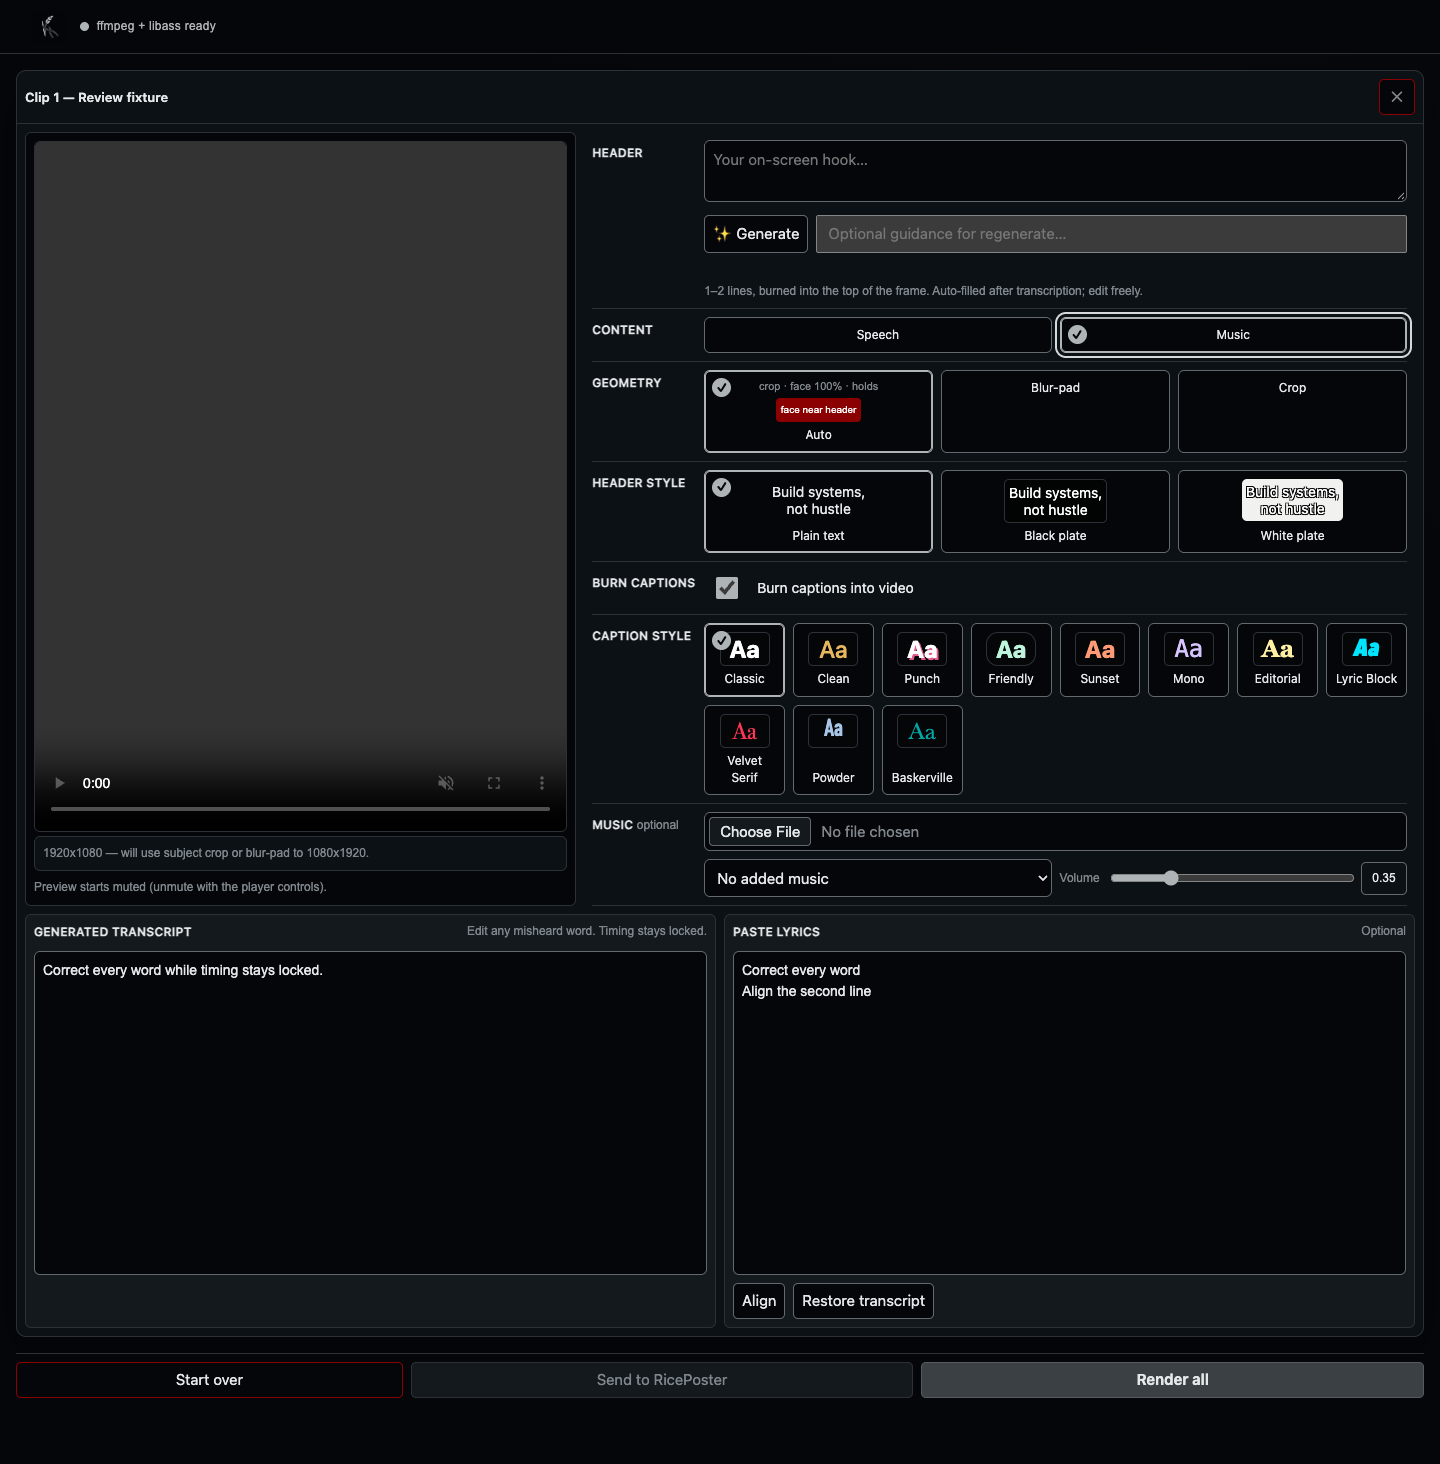
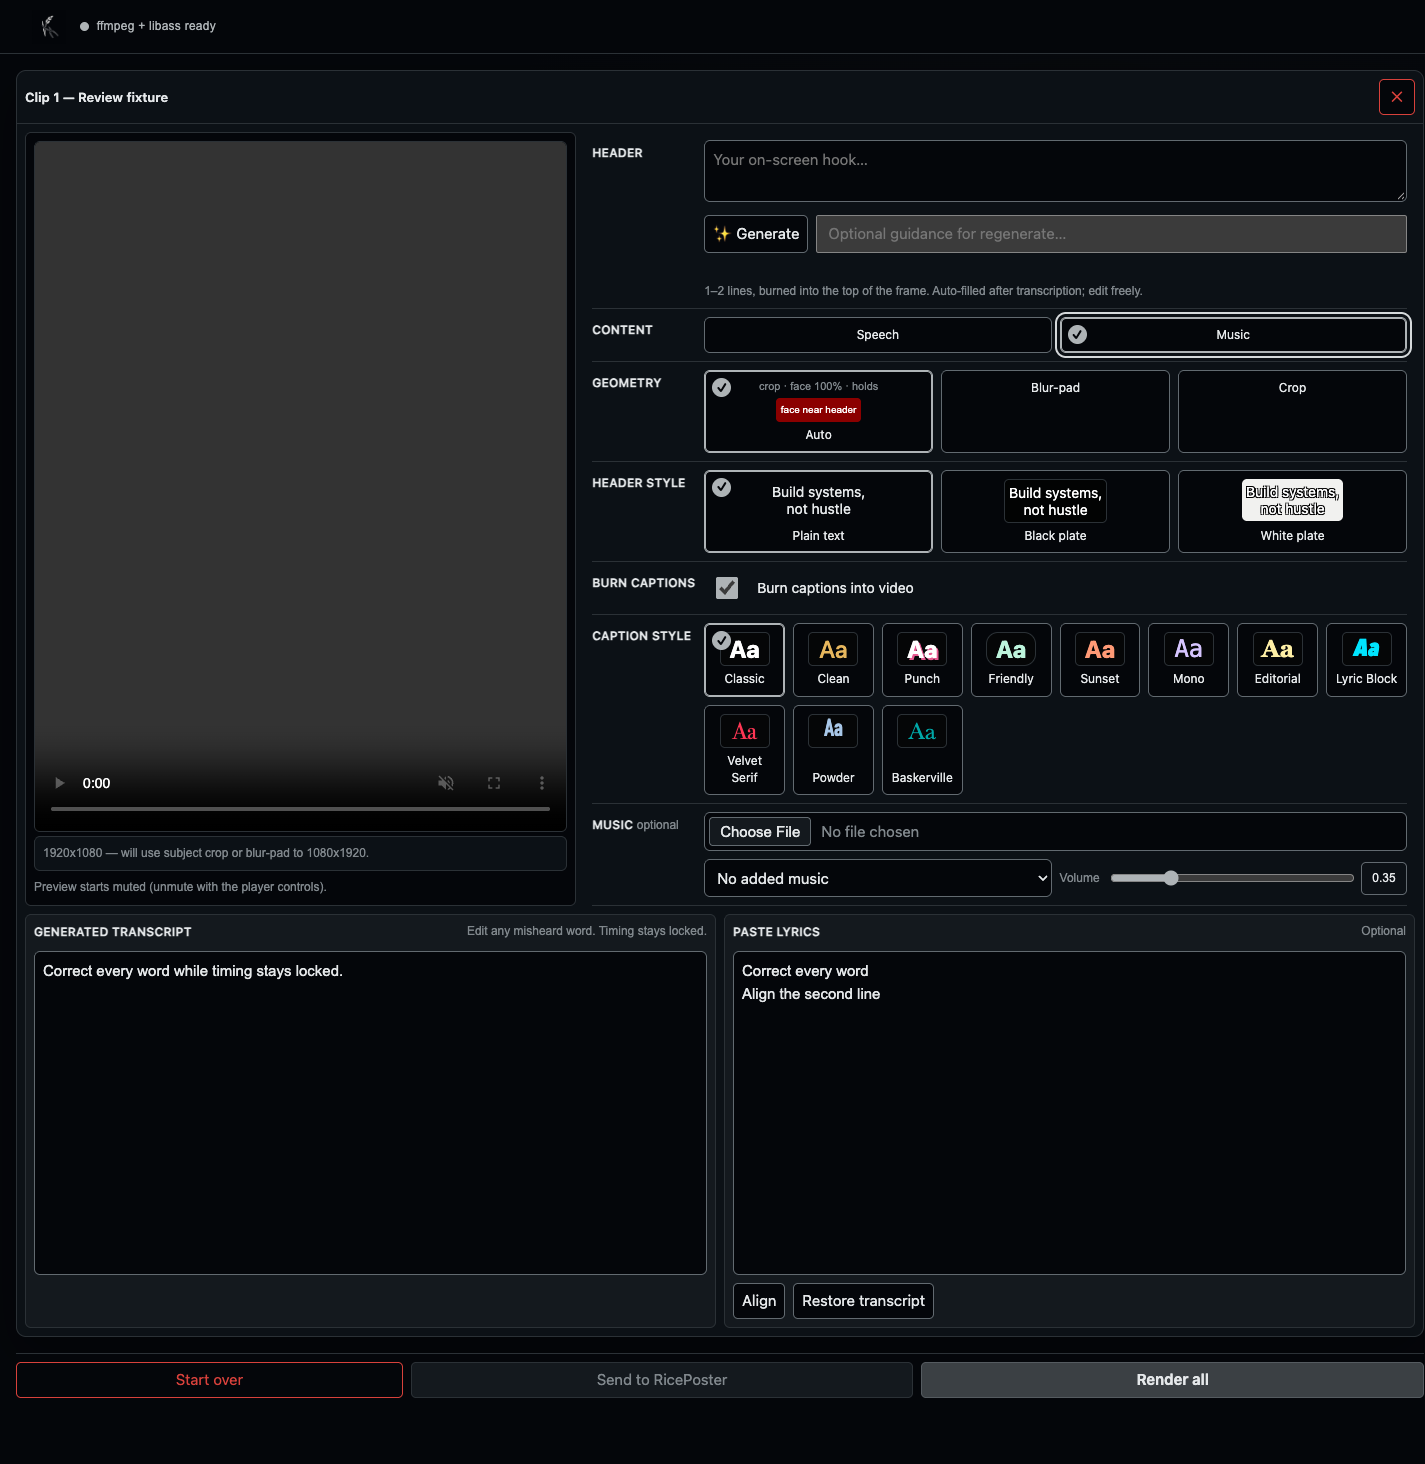
Match red control text to #D8413B edge; raise transcript text to header size

diff --git a/web/style.css b/web/style.css
@@ -10,6 +10,7 @@
   --charcoal: #3b4044;
   --text: #e5e8ea;
   --danger: #ff7979;
+  --destructive: #d8413b;
   --focus: #d5d9db;
   --shadow: 0 18px 50px rgb(0 0 0 / 28%);
 }
@@ -48,7 +49,7 @@ body:has(#batch-panel:not(.hidden)) main { width: 100%; padding: calc(var(--edit
 .clip-head { display: flex; min-height: 48px; padding: var(--editor-space); align-items: center; gap: var(--editor-space); border-bottom: 1px solid var(--hairline); }
 .clip-title { overflow: hidden; font-size: 13px; font-weight: 620; text-overflow: ellipsis; white-space: nowrap; }
 .clip-head .clip-status { flex: 1; margin: 0; text-align: right; }
-.clip-remove { width: 36px; min-height: 36px; padding: 0; border-color: #8b0000; color: var(--muted); }
+.clip-remove { width: 36px; min-height: 36px; padding: 0; border-color: var(--destructive); color: var(--destructive); }
 .review-grid { display: grid; grid-template-columns: repeat(10, minmax(0, 1fr)); gap: var(--editor-space); padding: var(--editor-space); }
 .preview-col { display: flex; grid-column: 1 / span 4; grid-row: 1; min-width: 0; padding: var(--editor-space); flex-direction: column; border: 1px solid var(--hairline); border-radius: 6px; background: var(--backdrop); }
 .preview-col video, .output-video { display: block; width: 100%; background: #000; }
@@ -115,7 +116,7 @@ input[type="file"]::file-selector-button { margin-right: 10px; border: 1px solid
 .text-heading { display: flex; min-height: 28px; align-items: start; justify-content: space-between; gap: var(--editor-space); padding-bottom: calc(var(--editor-space) * 0.5); }
 .text-heading .hint { margin: 0; }
 .text-heading .field-label { padding: 0; }
-.transcript, .lyrics-input { display: block; width: 100%; height: clamp(280px, 36vh, 440px); min-height: 280px; max-height: 440px; overflow: auto; padding: var(--editor-space); border: 1px solid var(--control-line); border-radius: 6px; background: var(--backdrop); color: var(--text); font: 14px/1.5 Arial, sans-serif; letter-spacing: normal; }
+.transcript, .lyrics-input { display: block; width: 100%; height: clamp(280px, 36vh, 440px); min-height: 280px; max-height: 440px; overflow: auto; padding: var(--editor-space); border: 1px solid var(--control-line); border-radius: 6px; background: var(--backdrop); color: var(--text); font: 15px/1.5 Arial, sans-serif; letter-spacing: normal; }
 .lyrics-input { resize: none; }
 .transcript .word { display: inline-block; padding: 0; border-radius: 3px; outline: none; }
 .transcript .word:focus { background: rgb(174 179 182 / 20%); outline: 1px solid var(--rice); }
@@ -131,12 +132,12 @@ input[type="file"]::file-selector-button { margin-right: 10px; border: 1px solid
 
 .clip-result { padding: 16px; border-top: 1px solid var(--hairline); }
 .batch-actions { display: grid; grid-template-columns: 1fr 1.3fr 1.3fr; gap: var(--editor-space); margin-top: var(--editor-space); padding: var(--editor-space) 0; border-top: 1px solid var(--hairline); background: var(--backdrop); }
-#restart-btn { border-color: #8b0000; }
+#restart-btn { border-color: var(--destructive); color: var(--destructive); }
 #batch-panel button { min-height: 36px; padding: calc(var(--editor-space) * 0.5) var(--editor-space); }
 #batch-panel .clip-remove { padding: 0; }
 button, .primary { display: inline-flex; min-height: 44px; padding: 9px 16px; align-items: center; justify-content: center; border: 1px solid var(--control-line); border-radius: 5px; background: var(--backdrop); color: var(--text); cursor: pointer; text-decoration: none; }
 button:hover, .primary:hover { border-color: var(--rice); }
-.clip-remove:hover, #restart-btn:hover { border-color: #8b0000; }
+.clip-remove:hover, #restart-btn:hover { border-color: var(--destructive); }
 .primary { border-color: #555b60; background: var(--charcoal); font-weight: 650; }
 button:disabled, .primary:disabled { border-color: var(--hairline); background: var(--interior); color: var(--muted); cursor: not-allowed; }
 button:focus-visible, .primary:focus-visible, textarea:focus-visible, select:focus-visible, input:focus-visible { outline: 2px solid var(--focus); outline-offset: 2px; }

diff --git a/scripts/check_editor_browser.py b/scripts/check_editor_browser.py
@@ -187,7 +187,8 @@ CHECKS = r"""
   const measure = document.createElement("canvas").getContext("2d");
   measure.font = css(clip.transcriptEl).font;
   check(near(wordGap, measure.measureText(" ").width, 0.75), "generated words use ordinary text spacing");
-  check(css(clip.transcriptEl).fontSize === "14px" && css(clip.transcriptEl).lineHeight === "21px", "reading scale");
+  check(css(clip.transcriptEl).fontSize === "15px" && css(clip.transcriptEl).lineHeight === "22.5px", "reading scale");
+  check(css(clip.transcriptEl).fontSize === css(clip.el.querySelector(".header-input")).fontSize, "transcript matches header text size");
   check(css(clip.lyricsInputEl).resize === "none", "lyrics cannot resize away from transcript");
   check(transcript.height >= 280 && transcript.height <= 440, "transcript height");
   if (mode === "music") check(lyrics.height >= 280 && lyrics.height <= 440, "lyric height");
@@ -202,7 +203,8 @@ CHECKS = r"""
   const normalButton = css(clip.el.querySelector(".header-generate"));
   for (const el of [clip.el.querySelector(".clip-remove"), document.getElementById("restart-btn")]) {
     check(css(el).backgroundColor === normalButton.backgroundColor, "red-bordered button uses normal interior");
-    check(css(el).borderTopColor === "rgb(139, 0, 0)", "red-bordered button edge");
+    check(css(el).borderTopColor === "rgb(216, 65, 59)", "red-bordered button edge");
+    check(css(el).color === "rgb(216, 65, 59)", "red-bordered button text matches edge");
   }
   const captionPlan = { decision: "crop", reason: "caption_zone", face_rate: 1, safe_rate: 1, warning: "caption_zone" };
   applyGeometry(clip, { width: 1920, height: 1080, crop_plan: captionPlan, music_plan: captionPlan });
